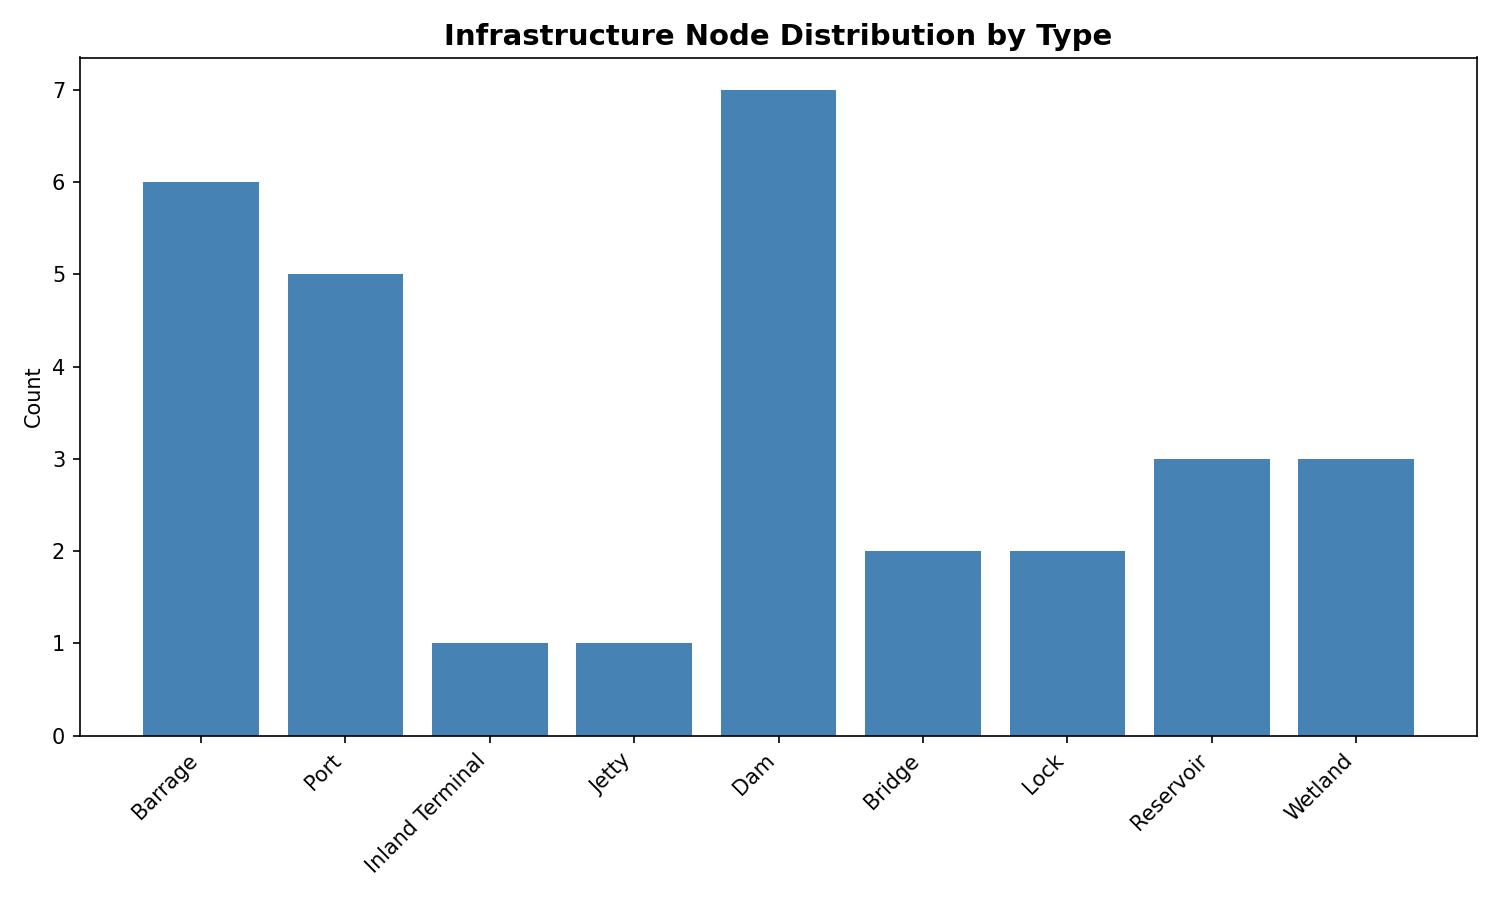
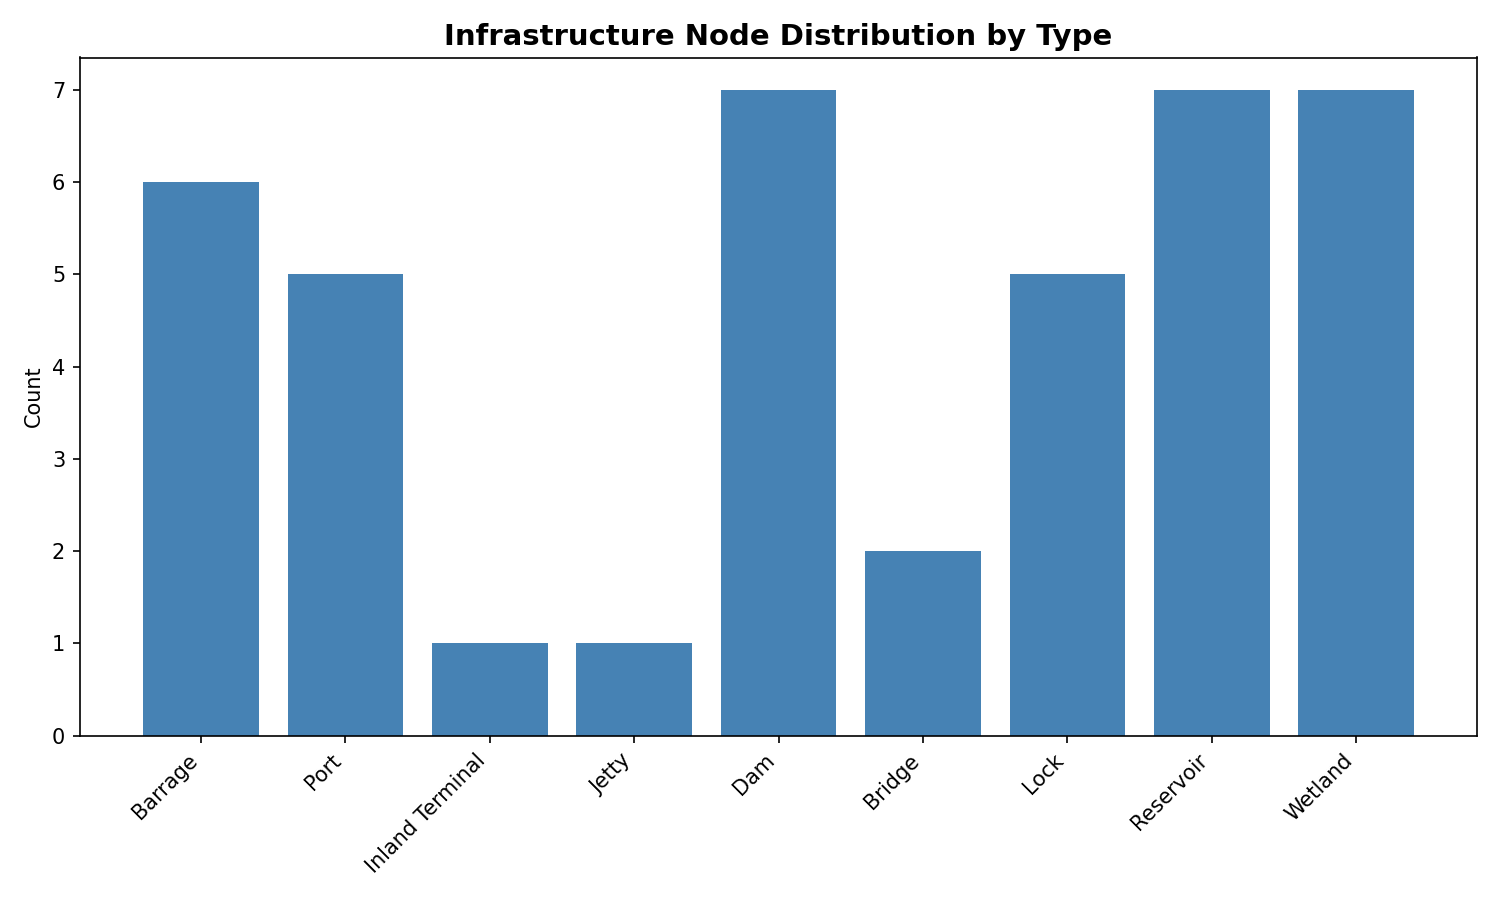
Add locks/reservoirs/wetlands for remaining rivers - all 10 rivers now have complete topology (up from 8/10)

Changed region(s): [[0.6747, 0.0933, 0.9507, 0.6222]]

diff --git a/national_gis_layer.py b/national_gis_layer.py
@@ -1,4 +1,4 @@
-import geopandas as gpd
+import geopandas as gpd
 import pandas as pd
 from shapely.geometry import LineString, Point, Polygon
 import json
@@ -112,6 +112,17 @@ infra_records = [
     # NEW: Additional ports/jetties/terminals for coverage
     {"id": "INFRA_29", "name": "Haldia Dock Complex", "type": "Port", "river": "Ganga", "pt": (88.06, 22.03)},
     {"id": "INFRA_30", "name": "Vishakhapatnam Port", "type": "Port", "river": "Godavari", "pt": (83.3, 17.7)},
+    {"id": "INFRA_31", "name": "Yamuna Lock (Agra Barrage)", "type": "Lock", "river": "Yamuna", "pt": (78.0, 27.2)},
+    {"id": "INFRA_32", "name": "Yamuna Reservoir (Hathnikund)", "type": "Reservoir", "river": "Yamuna", "pt": (77.35, 30.35)},
+    {"id": "INFRA_33", "name": "Yamuna Floodplain Wetland (Delhi)", "type": "Wetland", "river": "Yamuna", "pt": (77.25, 28.65)},
+    {"id": "INFRA_34", "name": "Brahmaputra Navigation Lock (Pandu)", "type": "Lock", "river": "Brahmaputra", "pt": (91.65, 26.15)},
+    {"id": "INFRA_35", "name": "Brahmaputra Char Wetland Complex", "type": "Wetland", "river": "Brahmaputra", "pt": (93.0, 26.5)},
+    {"id": "INFRA_36", "name": "Ukai Reservoir", "type": "Reservoir", "river": "Tapi", "pt": (73.65, 21.25)},
+    {"id": "INFRA_37", "name": "Tapi Estuary Wetland (Surat)", "type": "Wetland", "river": "Tapi", "pt": (72.75, 21.15)},
+    {"id": "INFRA_38", "name": "Kaveri Delta Lock (Grand Anicut)", "type": "Lock", "river": "Kaveri", "pt": (78.9, 11.2)},
+    {"id": "INFRA_39", "name": "Krishna Raja Sagara Reservoir", "type": "Reservoir", "river": "Kaveri", "pt": (76.55, 12.35)},
+    {"id": "INFRA_40", "name": "Point Calimere Wetland (Kaveri delta)", "type": "Wetland", "river": "Kaveri", "pt": (79.85, 10.3)},
+    {"id": "INFRA_41", "name": "Indus Reservoir (Zanskar confluence)", "type": "Reservoir", "river": "Indus_Basin", "pt": (76.5, 33.5)},
 ]
 
 gdf_infra = gpd.GeoDataFrame({